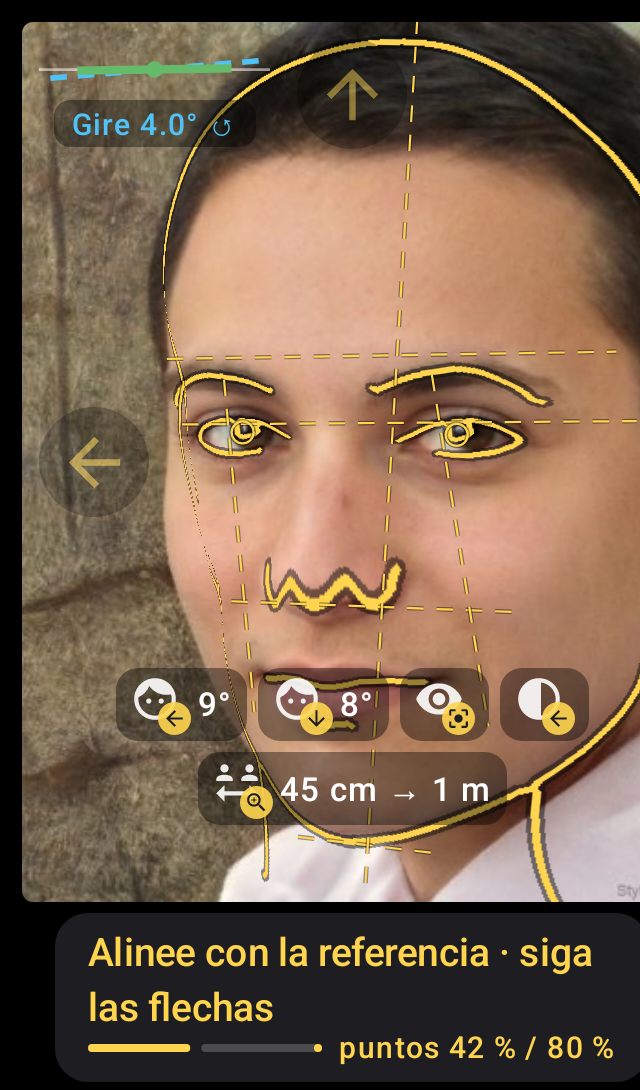
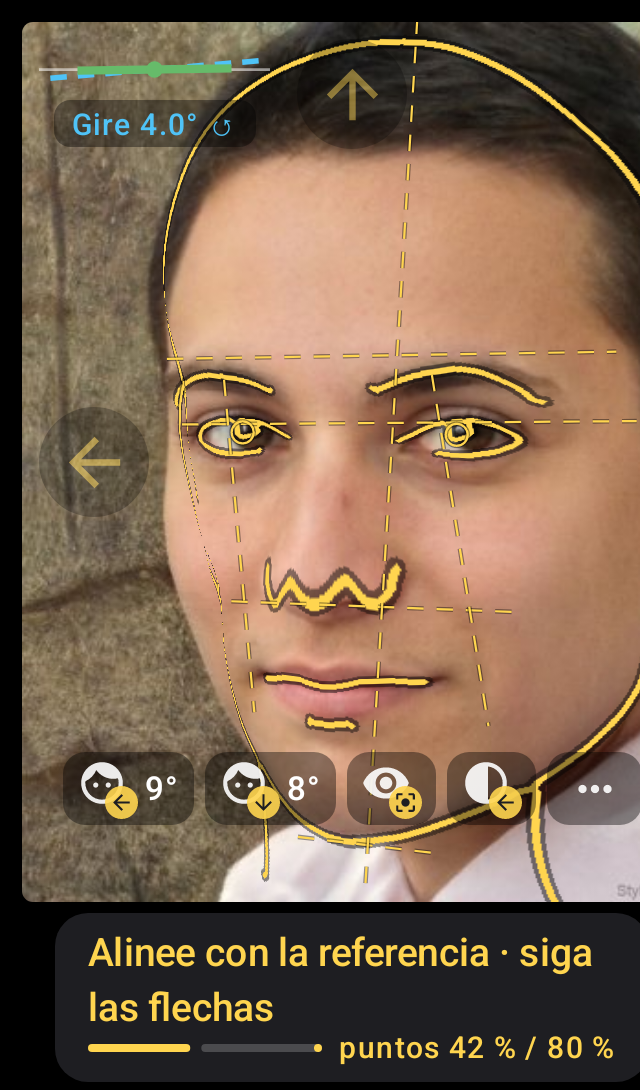
Iconos de corrección en una sola fila; si no caben, puntos suspensivos que despliegan el resto
Claude-Session: https://claude.ai/code/session_014VAsmm7BpNKZLFCeH8tR94

Changed region(s): [[0.0938, 0.5927, 1.0, 0.7798]]

diff --git a/app/src/main/java/com/photomed/app/ui/camera/CameraAssist.kt b/app/src/main/java/com/photomed/app/ui/camera/CameraAssist.kt
@@ -26,6 +26,10 @@ import androidx.compose.foundation.layout.width
 import androidx.compose.foundation.shape.CircleShape
 import androidx.compose.foundation.shape.RoundedCornerShape
 import androidx.compose.material.icons.Icons
+import androidx.compose.runtime.setValue
+import androidx.compose.foundation.clickable
+import androidx.compose.material.icons.filled.ExpandMore
+import androidx.compose.material.icons.filled.MoreHoriz
 import androidx.compose.material.icons.automirrored.filled.ArrowBack
 import androidx.compose.material.icons.automirrored.filled.ArrowForward
 import androidx.compose.material.icons.filled.ArrowDownward
@@ -172,11 +176,29 @@ fun correctionItems(frame: LiveFrame?, zoomInfo: String?, distanceHint: String?)
 fun CueOverlay(items: List<String>, accent: Color, modifier: Modifier = Modifier) {
     val cues = items.mapNotNull { HintCues.of(it) }
     if (cues.isEmpty()) return
+    // Una sola fila; si no caben, "…" (al tocarlo se ven todas; al tocar de nuevo, se recogen)
+    var expanded by androidx.compose.runtime.saveable.rememberSaveable { androidx.compose.runtime.mutableStateOf(false) }
     androidx.compose.foundation.layout.FlowRow(
         modifier.padding(horizontal = 8.dp),
         horizontalArrangement = Arrangement.spacedBy(4.dp, Alignment.CenterHorizontally),
         verticalArrangement = Arrangement.spacedBy(4.dp),
+        maxLines = if (expanded) Int.MAX_VALUE else 1,
+        overflow = androidx.compose.foundation.layout.FlowRowOverflow.expandOrCollapseIndicator(
+            // (el número de fichas visibles solo se conoce al dibujar: descripción genérica)
+            expandIndicator = { MoreChip(Icons.Default.MoreHoriz, "Más indicaciones: toque para verlas todas") { expanded = true } },
+            collapseIndicator = { MoreChip(Icons.Default.ExpandMore, "Mostrar menos indicaciones") { expanded = false } },
+        ),
     ) { cues.forEach { CueChip(it, accent, compact = true) } }
+}
+
+@Composable
+private fun MoreChip(icon: ImageVector, description: String, onClick: () -> Unit) {
+    Box(
+        Modifier.background(Color(0x66000000), RoundedCornerShape(8.dp)).clickable(onClickLabel = description, onClick = onClick)
+            .padding(horizontal = 6.dp, vertical = 2.dp).size(22.dp)
+            .semantics { contentDescription = description },
+        contentAlignment = Alignment.Center,
+    ) { Icon(icon, null, tint = Color.White.copy(alpha = 0.9f), modifier = Modifier.size(18.dp)) }
 }
 
 @OptIn(androidx.compose.foundation.layout.ExperimentalLayoutApi::class)

diff --git a/app/src/test/java/com/photomed/app/CameraAssistScreenshotTest.kt b/app/src/test/java/com/photomed/app/CameraAssistScreenshotTest.kt
@@ -89,7 +89,8 @@ class CameraAssistScreenshotTest {
                             LevelIndicator(Tilt(0.8f, 1f), g!!.rotateDeg, Modifier.align(Alignment.TopStart).padding(6.dp))
                             EdgeArrows(g, GuideTone.CLOSE.color)
                             com.photomed.app.ui.camera.CueOverlay(listOf("Cabeza: girar a la izquierda 9°", "Barbilla: bajar 8° (Frankfort)",
-                                "Mirada: al frente", "Luz desigual: lado izquierdo más oscuro", "≈ 45 cm: aléjese ≥ 1 m y use zoom"),
+                                "Mirada: al frente", "Luz desigual: lado izquierdo más oscuro", "≈ 45 cm: aléjese ≥ 1 m y use zoom",
+                                "Cabeza: enderezar 5° (inclinada a la derecha)", "Poca luz en el rostro"),
                                 GuideTone.CLOSE.color, Modifier.align(Alignment.BottomCenter).padding(bottom = 28.dp))
                         }
                         RecommendationStrip(LiveFrame(eval, method = "puntos anatómicos", totalPoints = 140), g, autoCapture = true,
